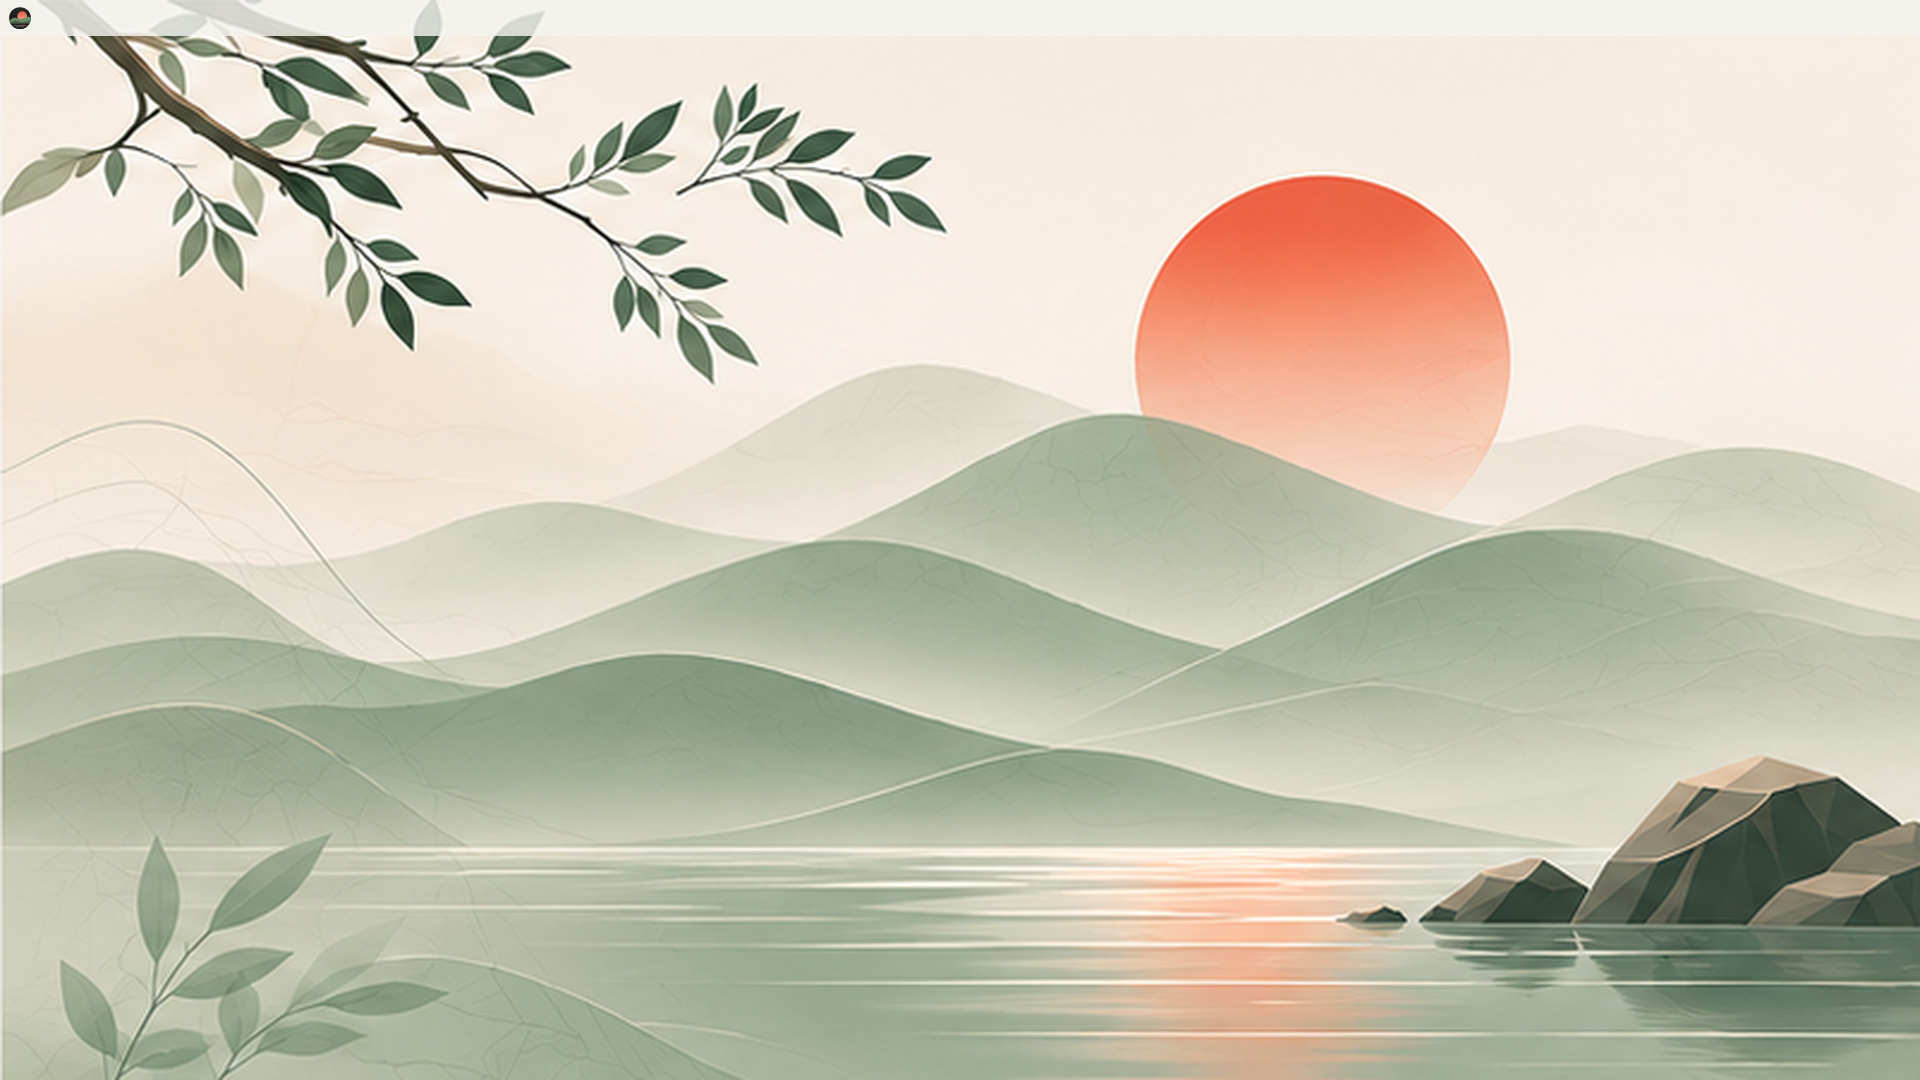
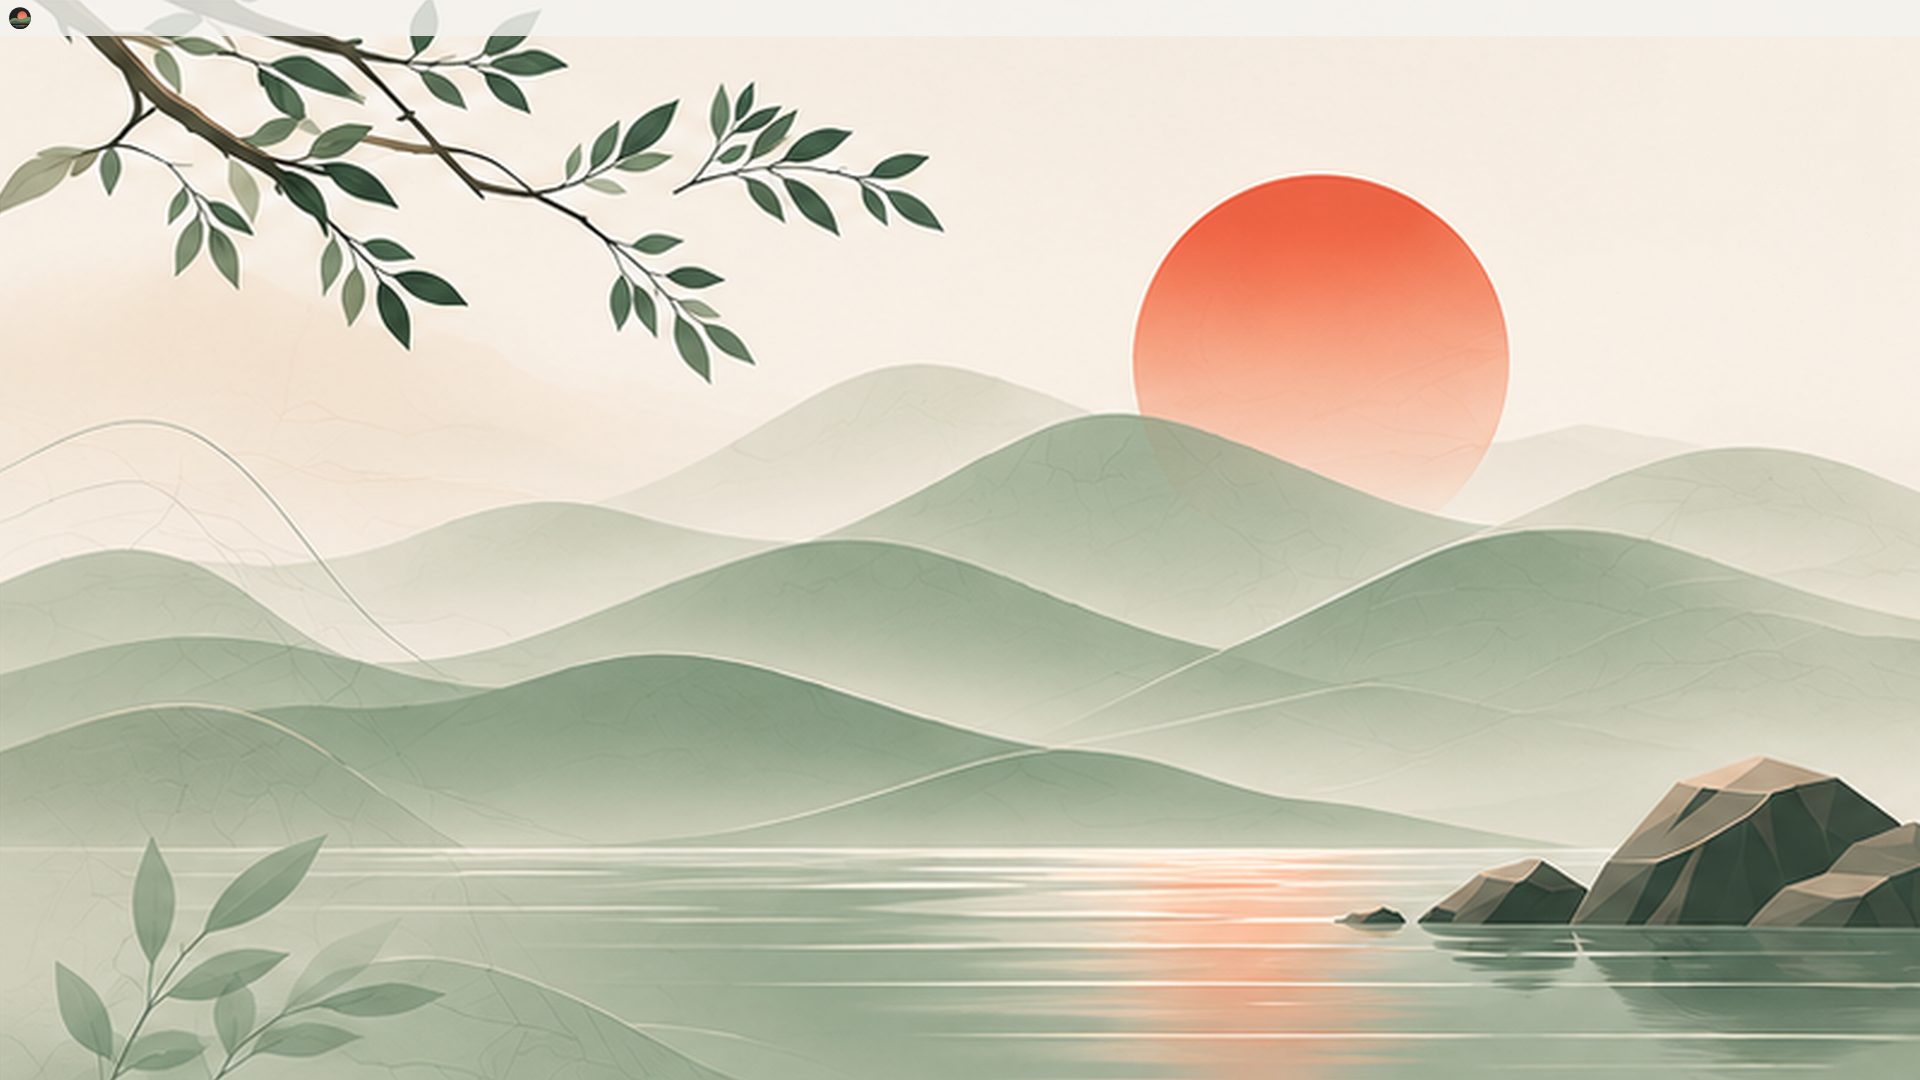
Natura Light wallpaper: crop its faint left edge too
Claude-Session: https://claude.ai/code/session_01KX5fs7HB3Wh69PUUothKoX

diff --git a/packs/natura/art-src/clean_wallpapers.py b/packs/natura/art-src/clean_wallpapers.py
@@ -1,5 +1,5 @@
 """Natura wallpapers: take out the "NATURATECH ZEN" text, the dot grid and the line-and-square
-mark (top right), and crop the Dark picture's light strip; both stay 3840 x 2160."""
+mark (top right), and crop the light strip on the left of each; both stay 3840 x 2160."""
 import sys
 import numpy as np, cv2
 from PIL import Image
@@ -50,6 +50,8 @@ src, out, which = sys.argv[1], sys.argv[2], sys.argv[3]
 a = np.asarray(Image.open(src).convert("RGB"))
 if which == "light":
     a = clean(a, (3120, 60, 3840, 880))
+    a = a[3:3 + 2154, 10:10 + 3830]        # the faint light edge on the left
+    a = cv2.resize(a, (3840, 2160), interpolation=cv2.INTER_LANCZOS4)
 else:
     a = clean(a, (3190, 60, 3840, 880))
     a = a[14:14 + 2124, 64:64 + 3776]      # the light strip on the left (and the thin line along the top)
